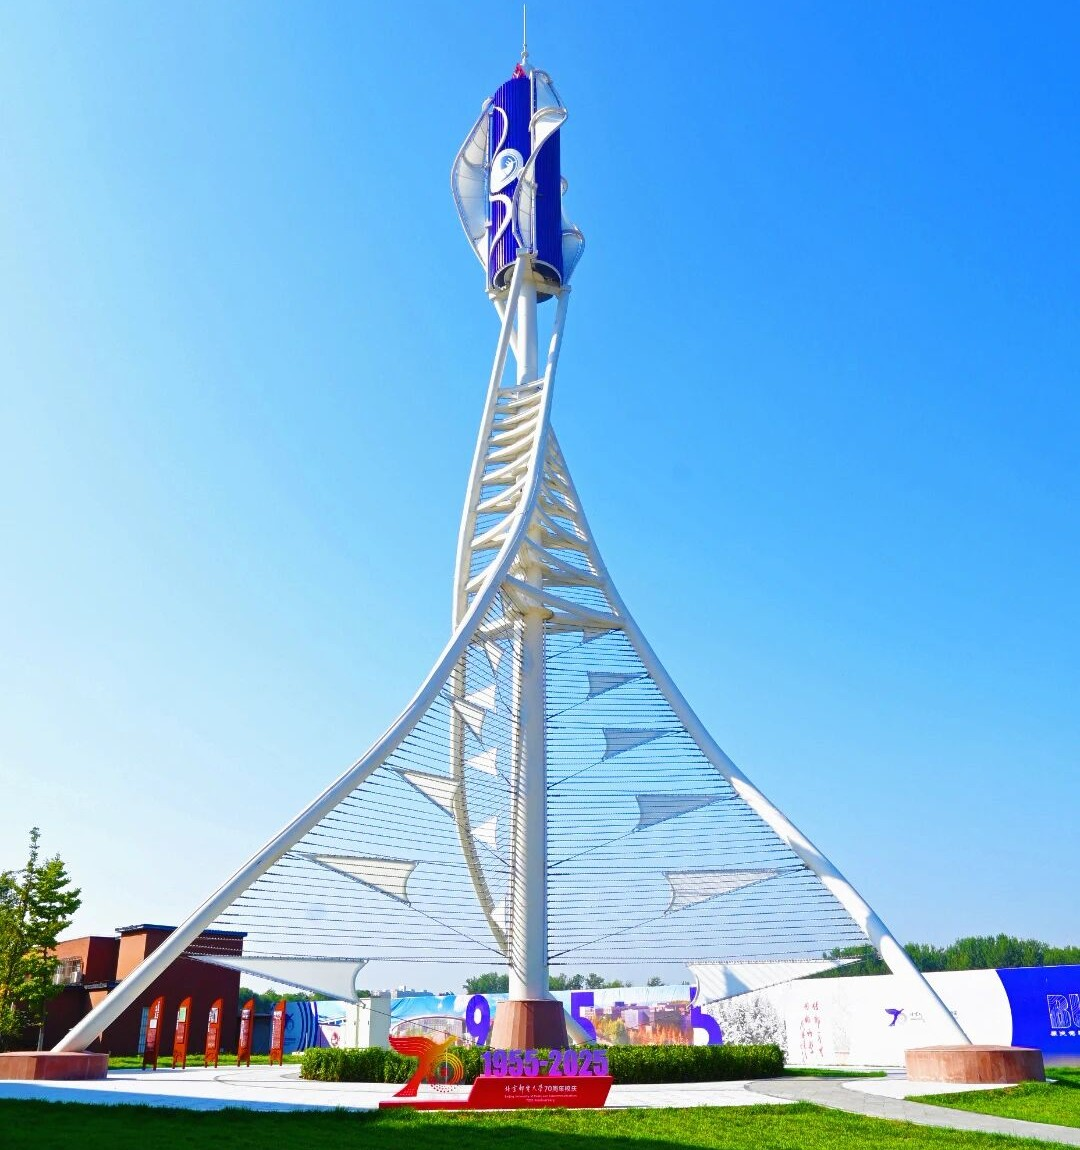
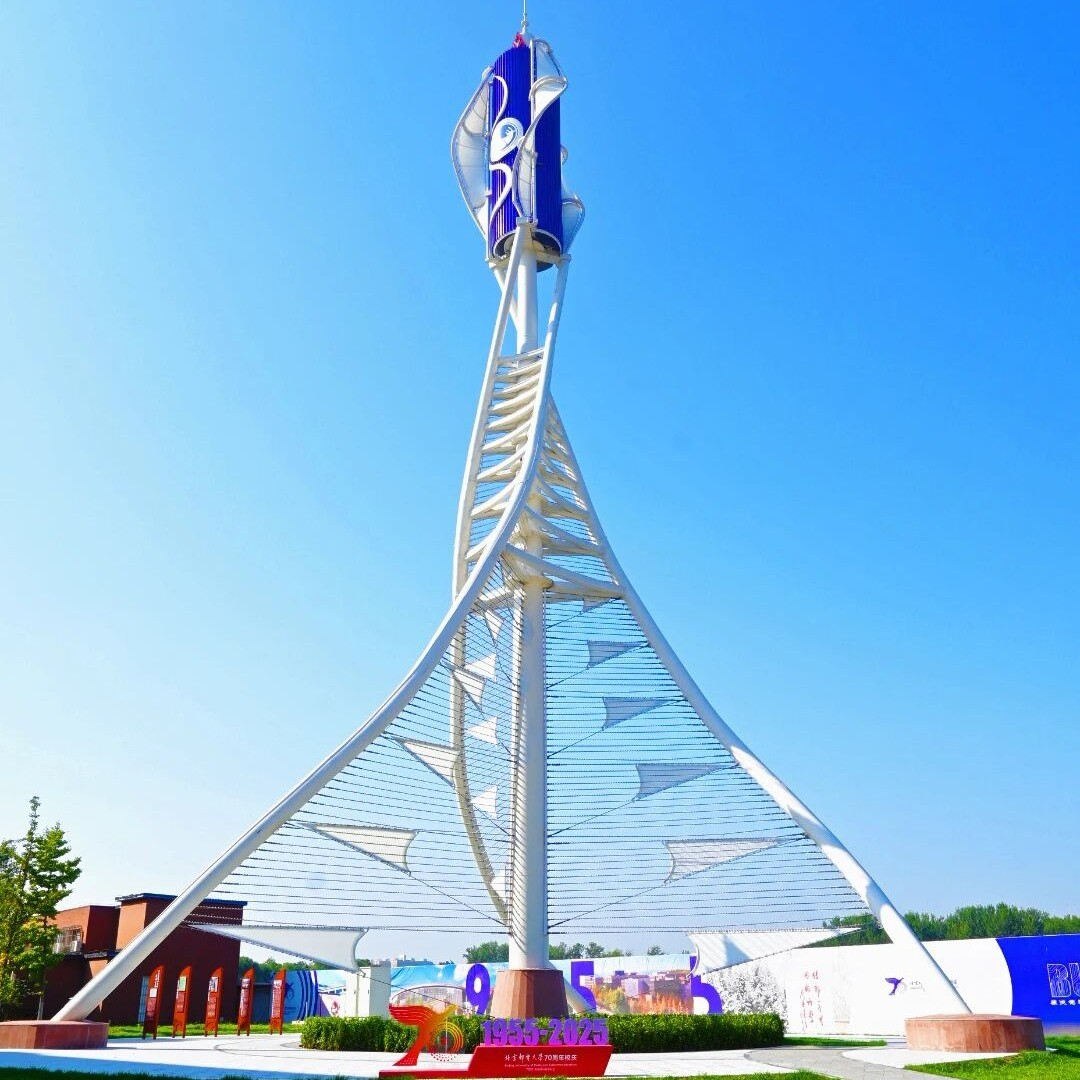
1

Changed region(s): [[0.0, 0.4583, 1.0, 1.0], [0.3972, 0.0, 0.55, 0.4278]]

diff --git a/gallery.html b/gallery.html
@@ -82,7 +82,7 @@
                         <figcaption class="gallery-caption">现代化教室</figcaption>
                     </figure>
                     <figure>
-                        <img src="images/北邮星塔.jpg" alt="北邮星塔" class="portrait-img">
+                        <img src="images/北邮星塔.jpg" alt="北邮星塔">
                         <figcaption class="gallery-caption">北邮星塔</figcaption>
                     </figure>
                     <figure>

diff --git a/css/style.css b/css/style.css
@@ -752,13 +752,6 @@ table tbody tr:hover {
     transition: transform 0.3s ease;
 }
 
-/* 竖版图片特殊处理 */
-.gallery-images img.portrait-img {
-    object-fit: contain;
-    object-position: center;
-    background: #f8f9fa;
-}
-
 .gallery-images figure:hover img {
     transform: scale(1.05);
 }
